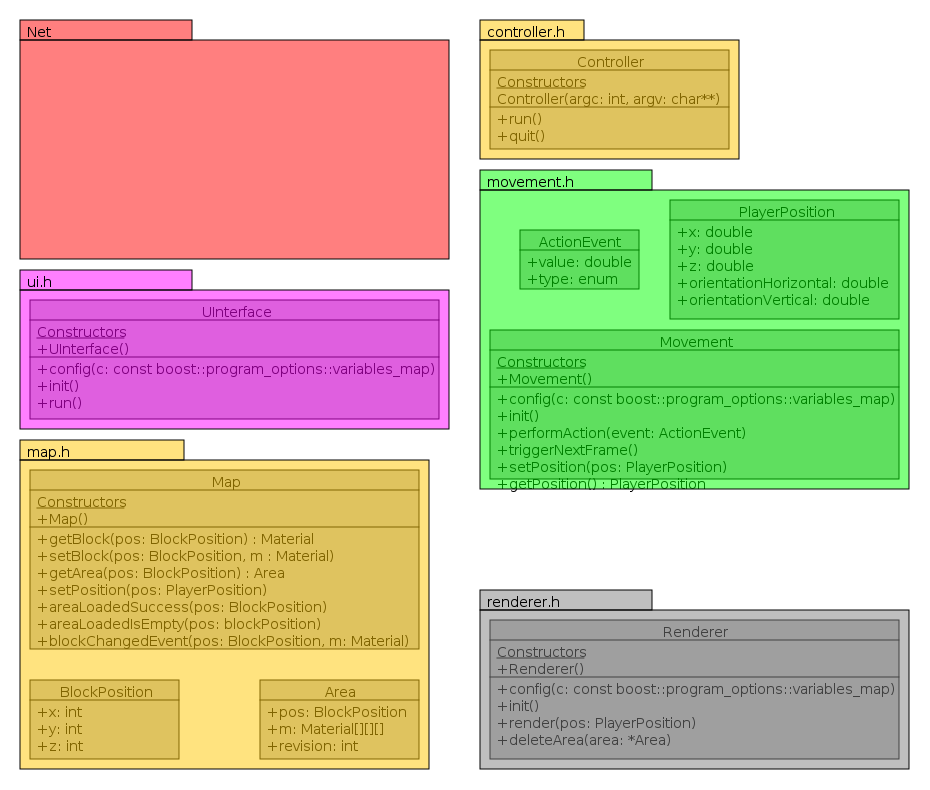
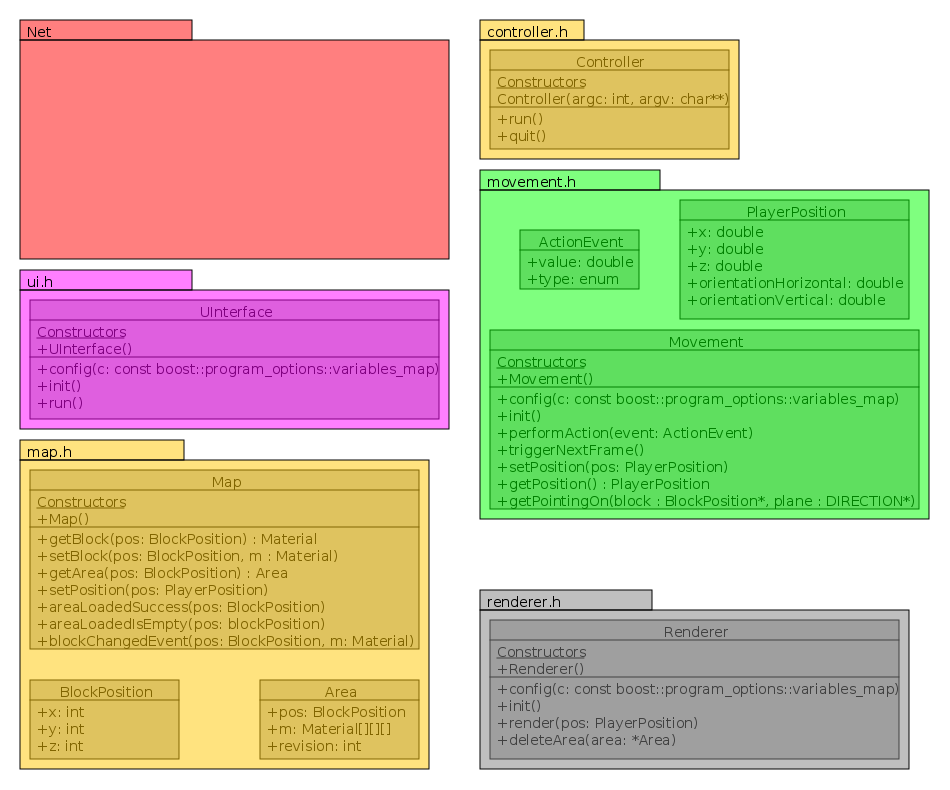
klassendiagramm

diff --git a/movement.cpp b/movement.cpp
@@ -38,6 +38,7 @@ void Movement::config(const boost::program_options::variables_map& c)
 	accelVertical		= c["accelVertical"].as<double>();
 	personSizeNormal	= c["personSizeNormal"].as<double>();
 	personSizeDucked	= c["personSizeDucked"].as<double>();
+	pointingDistance	= c["pointingDistance"].as<int>();
 	slowMovementSpeed	= c["slowMovementSpeed"].as<double>();
 	normalMovementSpeed	= c["normalMovementSpeed"].as<double>();
 	fastSpeedMultiplier	= c["fastSpeedMultiplier"].as<double>();
@@ -143,18 +144,20 @@ void Movement::performAction(ActionEvent event)
 	}
 }
 
-PlayerPosition Movement::getPosition()
-{
+PlayerPosition Movement::getPosition(){
 	return position;
 }
 
-void Movement::setPosition(PlayerPosition pos)
-{
+void Movement::setPosition(PlayerPosition pos){
 	position = pos;
 }
 
-void Movement::calcDucking()
-{
+void Movement::getPointingOn(BlockPosition* block, DIRECTION* plane){
+	*block = pointingOnBlock;
+	*plane = pointingOnPlane;
+}
+
+void Movement::calcDucking(){
 	if(duckPressed && personSize > personSizeDucked){
 		personSize -= 0.05;
 		position.z -= 0.05;
@@ -346,10 +349,164 @@ void Movement::calcCollisionAndMove(){
 	}
 }
 
-void Movement::triggerNextFrame()
-{
+/*void Movement::calcPointingOn(){
+	PlayerPosition lastPos = position;
+	lastPos.x = lastPos.x - floor(lastPos.x);
+	lastPos.y = lastPos.y - floor(lastPos.y);
+	lastPos.z = lastPos.z - floor(lastPos.z);
+
+	//int blockX = floor(posX);
+	//int blockY = floor(posY + personSize);
+	//int blockZ = floor(posZ);
+	
+	pointingOnPlane = -2;
+	
+	double distanceQ = 0;
+	int counter = 0;
+	
+	while(c->map.getBlock(lastPos.block()) == 0 && distanceQ <= pointingDistance*pointingDistance && counter <= 30 && pointingOnPlane != -1){
+		counter++;
+		lastPointingOn = calcPointingOnInBlock(&lastX, &lastY, &lastZ);
+		switch (lastPointingOn) {
+			//Back
+			case 0: blockZ--; lastZ++; break;
+			//Front
+			case 1: blockZ++; lastZ--; break;
+			//Bottom
+			case 2: blockY--; lastY++; break;
+			//Top
+			case 3: blockY++; lastY--; break;
+			//Left
+			case 4: blockX--; lastX++; break;
+			//Right
+			case 5: blockX++; lastX--; break;
+		}
+		
+		double dx = blockX+lastX-posX;
+		double dy = blockY+lastY-posY-personSize;
+		double dz = blockZ+lastZ-posZ;
+		
+		distanceQ = dx*dx + dy*dy + dz*dz;
+	}
+	
+	
+	if(landschaft[blockX*ysize*zsize + blockY*zsize  + blockZ] != 0){
+		pointingOnX = floor(blockX);
+		pointingOnY = floor(blockY);
+		pointingOnZ = floor(blockZ);
+	}
+	else{
+		pointingOnX = -1;
+		pointingOnY = -1;
+		pointingOnZ = -1;
+	}
+}
+
+//Berechnet die Fläche, auf die von der Startposition aus (Parameter) mit der aktuellen Blickrichtung
+//@return: ID der Fläche, auf die man zeigt
+//Am Ende sind die Parameter auf den Schnittpunkt gesetzt
+int Movement::calcPointingOnInBlock(double* startX, double* startY, double* startZ){
+	Matrix<double,3,3> left(0);
+	Matrix<double,1,3> right(0);
+	Matrix<double,1,3> result(0);
+	
+	//bleibt immer gleich (Blickrichtung)
+	left.data[2][0] = sin(M_PI*x/180.) * cos(M_PI*y/180.);
+	left.data[2][1] = -sin(M_PI*y/180.);
+	left.data[2][2] = -cos(M_PI*x/180.) * cos(M_PI*y/180.);
+	
+	//Fläche 0 (Front)
+	left.data[0][0] = 1;
+	left.data[1][1] = 1;
+	right.data[0][0] = 1-*startX;
+	right.data[0][1] = 1-*startY;
+	right.data[0][2] = -*startZ;
+	result = left.LU().solve(right);
+	if( 0 <= result.data[0][0] && result.data[0][0] <= 1
+		&& 0 <= result.data[0][1] && result.data[0][1] <= 1
+		&& 0 < result.data[0][2]) {
+		*startX = 1-result[0][0];
+	*startY = 1-result[0][1];
+	*startZ = 0;
+	return 0;
+		}
+		
+		//Fläche 1 (Back)
+		right.data[0][2] = 1-*startZ;
+		result = left.LU().solve(right);
+		if( 0 <= result.data[0][0] && result.data[0][0] <= 1
+			&& 0 <= result.data[0][1] && result.data[0][1] <= 1
+			&& 0 < result.data[0][2]) {
+			*startX = 1-result[0][0];
+		*startY = 1-result[0][1];
+		*startZ = 1;
+		return 1;
+			}
+			
+			//Fläche 2 (Top)
+			left.data[1][1] = 0;
+			left.data[1][2] = 1;
+			right.data[0][1] = -*startY;
+			result = left.LU().solve(right);
+			if( 0 <= result.data[0][0] && result.data[0][0] <= 1
+				&& 0 <= result.data[0][1] && result.data[0][1] <= 1
+				&& 0 < result.data[0][2]){
+				*startX = 1-result[0][0];
+			*startY = 0;
+			*startZ = 1-result[0][1];
+			return 2;
+				}
+				
+				//Fläche 3 (Bottom)
+				right.data[0][1] = 1-*startY;
+				result = left.LU().solve(right);
+				if( 0 <= result.data[0][0] && result.data[0][0] <= 1
+					&& 0 <= result.data[0][1] && result.data[0][1] <= 1
+					&& 0 < result.data[0][2]){
+					*startX = 1-result[0][0];
+				*startY = 1;
+				*startZ = 1-result[0][1];
+				return 3;
+					}
+					
+					//Fläche 4 (Right)
+					left.data[0][0] = 0;
+					left.data[0][1] = 1;
+					right.data[0][0] = -*startX;
+					result = left.LU().solve(right);
+					if( 0 <= result.data[0][0] && result.data[0][0] <= 1
+						&& 0 <= result.data[0][1] && result.data[0][1] <= 1
+						&& 0 < result.data[0][2]){
+						*startX = 0;
+					*startY = 1-result[0][0];
+					*startZ = 1-result[0][1];
+					return 4;
+						}
+						
+						//Fläche 5 (Left)
+						right.data[0][0] = 1-*startX;
+						result = left.LU().solve(right);
+						if( 0 <= result.data[0][0] && result.data[0][0] <= 1
+							&& 0 <= result.data[0][1] && result.data[0][1] <= 1
+							&& 0 < result.data[0][2]){
+							*startX = 1;
+						*startY = 1-result[0][0];
+						*startZ = 1-result[0][1];
+						return 5;
+							}
+							
+							//Falls keine Austrittsebene gefunden wird Error
+							return -1;
+}*/
+
+void Movement::calcBuilding(){
+
+}
+
+void Movement::triggerNextFrame(){
 	calcDucking();
 	calcNewSpeed();
 	calcCollisionAndMove();
+	//calcPointingOn();
 	//calcBuilding();
 }

diff --git a/controller.cpp b/controller.cpp
@@ -65,6 +65,7 @@ void Controller::parse_command_line(int argc, char *argv[]) {
 		("accelVertical", po::value<double>()->default_value(0.02f), "accelleration in vertical diretion")
 		("personSizeNormal", po::value<double>()->default_value(1.5), "normal size of person (should be between 1.01 and 1.99)")
 		("personSizeDucked", po::value<double>()->default_value(1.2), "ducked size of person (should be between 1.01 and 1.99 && < personSizeNormal)")
+		("pointingDistance", po::value<int>()->default_value(4), "range to build and remove blocks")
 		("slowMovementSpeed", po::value<double>()->default_value(0.03f), "speed when moving slowly")
 		("normalMovementSpeed", po::value<double>()->default_value(0.2f), "speed when moving normally")
 		("fastSpeedMultiplier", po::value<double>()->default_value(5.72341f), "speed multiplier when moving fast")
@@ -72,7 +73,7 @@ void Controller::parse_command_line(int argc, char *argv[]) {
 		("turningSpeed", po::value<double>()->default_value(0.2), "speed factor for turning")
 		("jumpSpeed", po::value<double>()->default_value(0.24), "initial speed when jumping")
 		
-		("mapDirectory", po::value<string>()->default_value("maps"), "Maps for saving areas")
+		("mapDirectory", po::value<string>()->default_value("maps"), "Folder for saving areas")
 		
 		("k_forward", po::value<int>()->default_value(119), "KeyCode for moving forward")
 		("k_backwards", po::value<int>()->default_value(115), "KeyCode for moving backwards")

diff --git a/movement.h b/movement.h
@@ -98,6 +98,9 @@ public:
 	PlayerPosition getPosition();
 	void setPosition(PlayerPosition pos);
 
+	//Get block and plane the user is pointing on
+	void getPointingOn(BlockPosition* block, DIRECTION* plane);
+
 private:
 	//current position
 	PlayerPosition position;
@@ -123,7 +126,13 @@ private:
 	float personSize;
 	double personSizeNormal;
 	double personSizeDucked;
+
+	//Pointing on
+	BlockPosition pointingOnBlock;
+	DIRECTION pointingOnPlane;
+	int pointingDistance;
 	
+	//Movement settings
 	float slowMovementSpeed;
 	float normalMovementSpeed;
 	float movementSpeed;
@@ -146,5 +155,6 @@ private:
 	void calcNewSpeed();
 	void calcCollisionAndMove();
 	void calcDucking();
+	void calcPointingOn();
 };
 #endif
